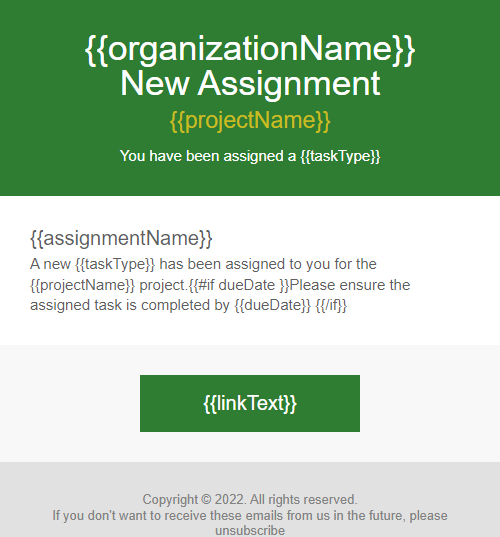
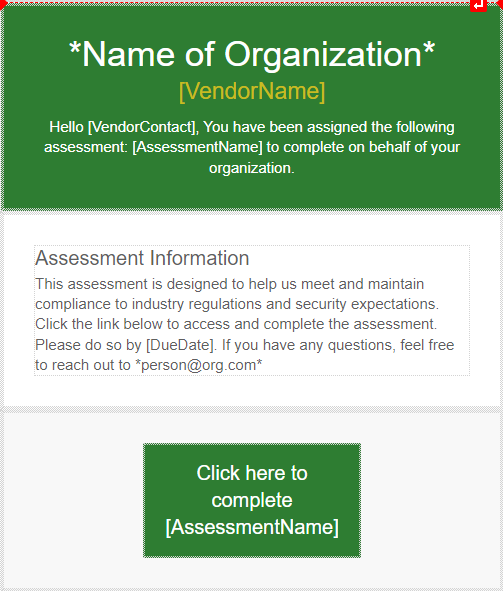
added template variables to email notification template

diff --git a/templates.js b/templates.js
@@ -1009,9 +1009,9 @@ var dataTableTwo = `<!DOCTYPE html PUBLIC "-//W3C//DTD XHTML 1.0 Strict//EN" "ht
                             <table border="0" cellpadding="30" cellspacing="0" width="100%">
                               <tr>
                                 <td align="center" valign="top" class="textContent">
-                                  <h1 style="color:#FFFFFF;line-height:100%;font-family:Helvetica,Arial,sans-serif;font-size:35px;font-weight:normal;margin-bottom:5px;text-align:center;">{{organizationName}} New Assignment</h1>
-                                  <h2 style="text-align:center;font-weight:normal;font-family:Helvetica,Arial,sans-serif;font-size:23px;margin-bottom:10px;color:#C9BC20;line-height:135%;">{{projectName}}</h2>
-                                  <div style="text-align:center;font-family:Helvetica,Arial,sans-serif;font-size:15px;margin-bottom:0;color:#FFFFFF;line-height:135%;">You have been assigned a {{taskType}} </div>
+                                  <h1 style="color:#FFFFFF;line-height:100%;font-family:Helvetica,Arial,sans-serif;font-size:35px;font-weight:normal;margin-bottom:5px;text-align:center;">*Name of Organization*</h1>
+                                  <h2 style="text-align:center;font-weight:normal;font-family:Helvetica,Arial,sans-serif;font-size:23px;margin-bottom:10px;color:#C9BC20;line-height:135%;">[VendorName]</h2>
+                                  <div style="text-align:center;font-family:Helvetica,Arial,sans-serif;font-size:15px;margin-bottom:0;color:#FFFFFF;line-height:135%;">Hello [VendorContact], You have been assigned the following assessment: [AssessmentName] to complete on behalf of your organization. </div>
                                 </td>
                               </tr>
                             </table>
@@ -1038,8 +1038,8 @@ var dataTableTwo = `<!DOCTYPE html PUBLIC "-//W3C//DTD XHTML 1.0 Strict//EN" "ht
                                   <table border="0" cellpadding="0" cellspacing="0" width="100%">
                                     <tr>
                                       <td valign="top" class="textContent">
-                                        <h3 style="color:#5F5F5F;line-height:125%;font-family:Helvetica,Arial,sans-serif;font-size:20px;font-weight:normal;margin-top:0;margin-bottom:3px;text-align:left;">{{assignmentName}}</h3>
-                                        <div style="text-align:left;font-family:Helvetica,Arial,sans-serif;font-size:15px;margin-bottom:0;margin-top:3px;color:#5F5F5F;line-height:135%;">A new {{taskType}} has been assigned to you for the {{projectName}} project.{{#if dueDate }}Please ensure the assigned task is completed by {{dueDate}} {{/if}}</div>
+                                        <h3 style="color:#5F5F5F;line-height:125%;font-family:Helvetica,Arial,sans-serif;font-size:20px;font-weight:normal;margin-top:0;margin-bottom:3px;text-align:left;">Assessment Information</h3>
+                                        <div style="text-align:left;font-family:Helvetica,Arial,sans-serif;font-size:15px;margin-bottom:0;margin-top:3px;color:#5F5F5F;line-height:135%;">This assessment is designed to help us meet and maintain compliance to industry regulations and security expectations. Click the link below to access and complete the assessment. Please do so by [DueDate]. If you have any questions, feel free to reach out to *person@org.com*</div>
                                       </td>
                                     </tr>
                                   </table>
@@ -1070,7 +1070,7 @@ var dataTableTwo = `<!DOCTYPE html PUBLIC "-//W3C//DTD XHTML 1.0 Strict//EN" "ht
                                   <table border="0" cellpadding="0" cellspacing="0" width="50%" class="emailButton" style="background-color: #2E7D32;">
                                     <tr>
                                       <td align="center" valign="middle" class="buttonContent" style="padding-top:15px;padding-bottom:15px;padding-right:15px;padding-left:15px;">
-                                        <a style="color:#FFFFFF;text-decoration:none;font-family:Helvetica,Arial,sans-serif;font-size:20px;line-height:135%;" href="{{link}}" target="_blank">{{linkText}}</a>
+                                        <span style="color:#FFFFFF;text-decoration:none;font-family:Helvetica,Arial,sans-serif;font-size:20px;line-height:135%; cursor: pointer; target="_blank">Click here to complete [AssessmentUrl]</span>
                                       </td>
                                     </tr>
                                   </table>
